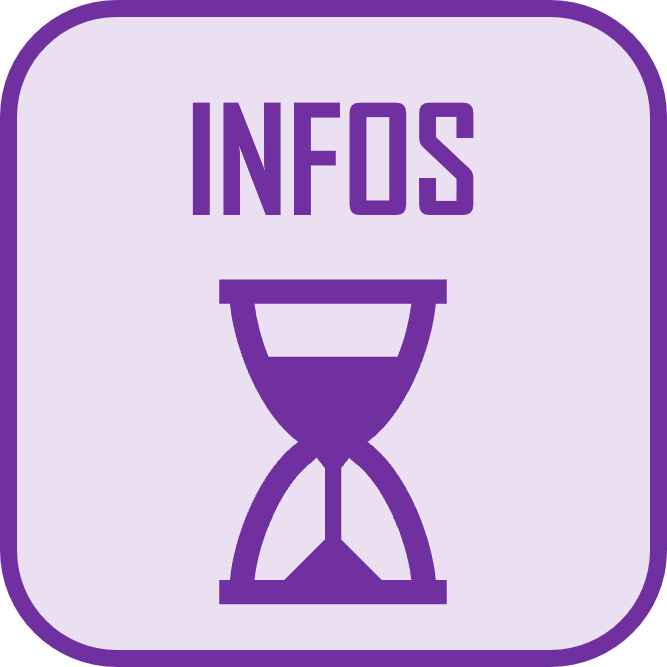
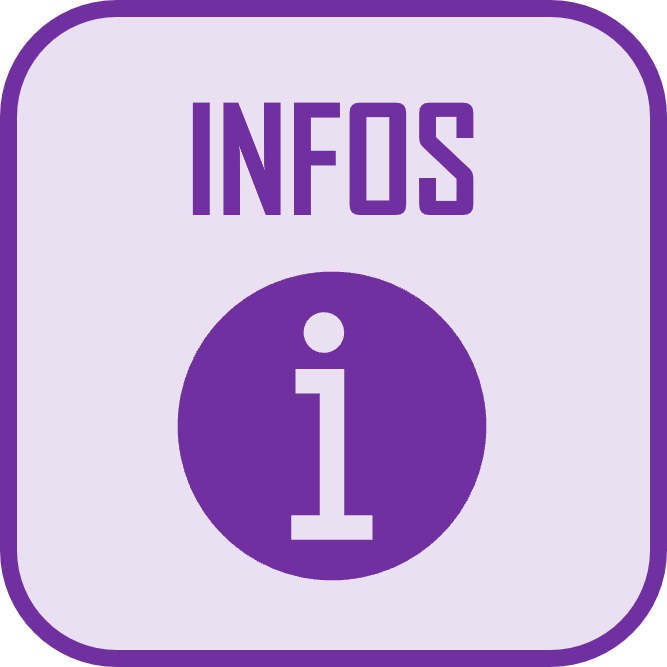
added some stuff

Changed region(s): [[0.2399, 0.4198, 0.7496, 0.9295], [0.4198, 0.3898, 0.5697, 0.4198]]

diff --git a/style.css b/style.css
@@ -10,13 +10,35 @@
   --couleur-violet-fonce: rgb(112,48,160);
   --couleur-violet-clair: rgb(234,224,241);
 }
+body{
+    justify-content: center;
+    font-family: 'Agency FB', sans-serif;
+    color: black;
+}
 
 h1 {
   text-align: center;
   font-size: 50px;
-  font-family: 'agency-fb';
-  color: black;
-  letter-spacing: 3px;
+}
+
+img {
+    width: 15%;
+    height: 15%;
+}
+
+/* I want centered div */
+div {
+    display: flex;
+    margin: 10px;
+    justify-content: center;
+}
+
+input{
+    padding: 10px;
+    border: 1px solid #ccc;
+    border-radius: 5px;
+    font-size: 16px;
+    width: 18   0px;
 }
 
 .menu_button img{

diff --git a/index.html b/index.html
@@ -11,11 +11,12 @@
 
 <body>
     <h1>Course à pied</h1>
+
     <div id="affichage_vma" >
         <label for="vma">VMA :
             <input type="number" id="vma_input" name="vma">
         </label>
-    </div>
+    </div> 
 
     <div id="calculator">
         <div id="allure_label_input">
@@ -53,6 +54,11 @@
         <div id="distance_button" class="menu_button">
             <img src="./images/distance.png" href="rien"/>
         </div>
+
+        <div id="infos_button" class="menu_button">
+            <img src="./images/infos.png" href="infos"/>    
+        </div>
+
     </div>
 
     <div id="chrono">
